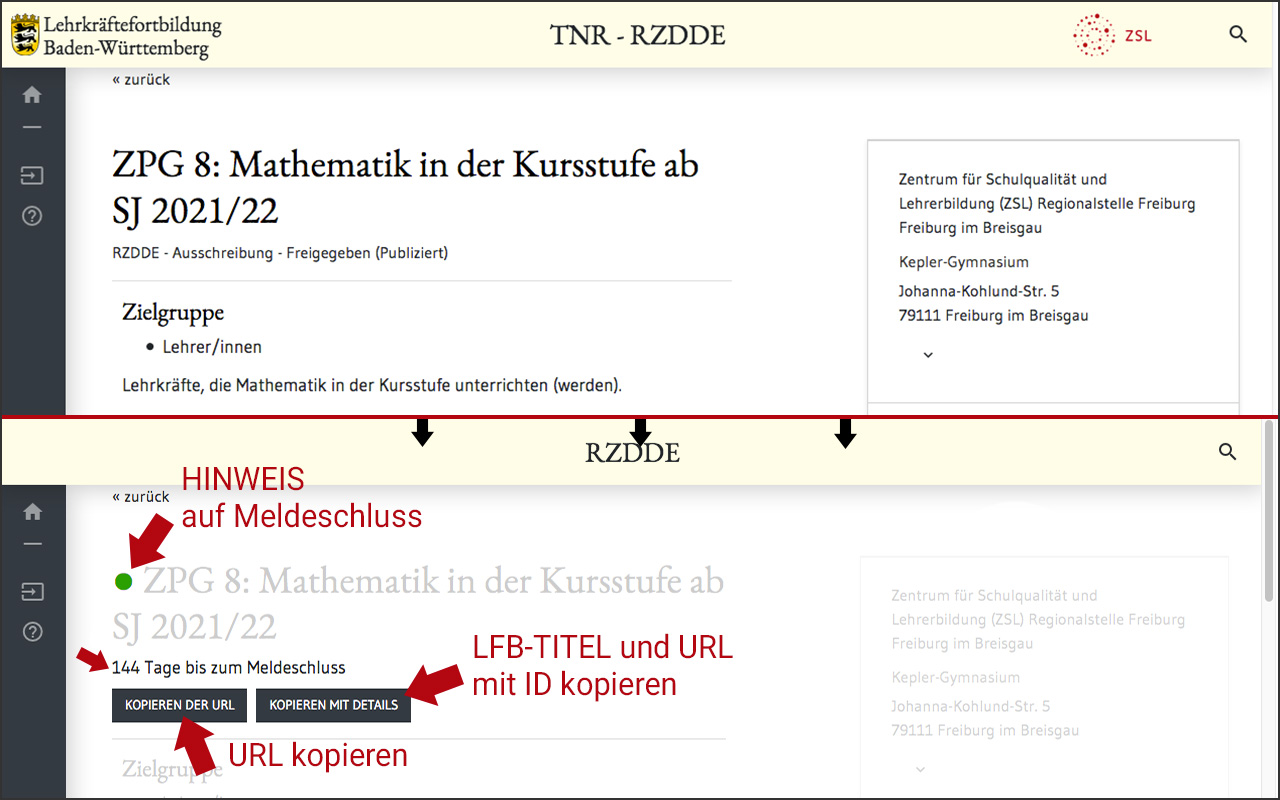
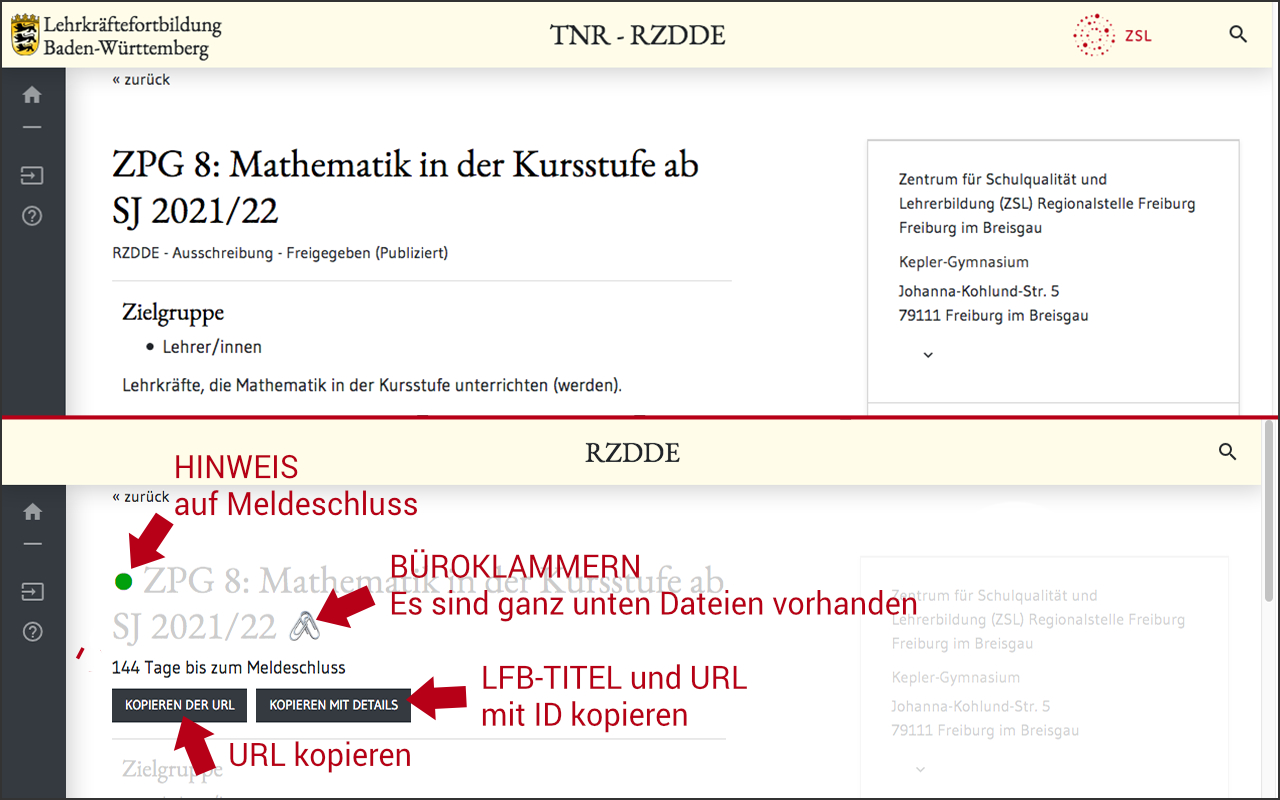
v2.5

diff --git a/greaseMonkey/lfbPlus.js b/greaseMonkey/lfbPlus.js
@@ -5,7 +5,7 @@
 // @twitterURL     https://www.twitter.com/Mr_DblH
 // @description    Gets links ready for opening in new tab and sets title accordingly. It shows an icon according to meldeschluss-date, too. Adds a link to itself including the LFB-ID to take a better reference to it. Setting up favourites in bookmarks is now much easier because title of page is changed to current appointment and LFB-ID.
 // @icon           https://raw.githubusercontent.com/Mr-DblH/LFBPlus/main/chrome_firefox/icons/lfbPlusIcon-48.png
-// @version        2.4
+// @version        2.5
 // @include        *lfbo.kultus-bw*
 // @license        https://creativecommons.org/licenses/by-nc/4.0/
 // ==/UserScript==
@@ -76,6 +76,17 @@ document.onreadystatechange = () => {
         title_str = title_el[0].innerText.split("\n");
         lfb_id = title_str[1].substring(0,6);
         var yellow_boxed_title_el = document.getElementsByClassName("d-none d-sm-block");
+
+        var zusaetzliche_unterlagen;
+        try{
+          zusaetzliche_unterlagen = document.body.innerHTML.toLowerCase().includes('Vorbereitende Veranstaltungsunterlagen'.toLowerCase());
+          if (zusaetzliche_unterlagen){
+            title_str[0] = title_str[0] + " 🖇";
+          }
+        } catch {
+          console.log("keine zusätzlichen Unterlagen gefunden")
+        }
+
 
         if (!title_el[0].innerHTML.includes('●')){
           try{
@@ -228,3 +239,5 @@ function copyToClipboardPlain(stringToBeCopied, btnElement){
     btnElement.classList.remove('btn-primary');
   }, 300);
 }
+
+

diff --git a/chrome_firefox/lfbPlus.js b/chrome_firefox/lfbPlus.js
@@ -5,7 +5,7 @@
 // @twitterURL     https://www.twitter.com/Mr_DblH
 // @description    Gets links ready for opening in new tab and sets title accordingly. It shows an icon according to meldeschluss-date, too. Adds a link to itself including the LFB-ID to take a better reference to it. Setting up favourites in bookmarks is now much easier because title of page is changed to current appointment and LFB-ID.
 // @icon           https://raw.githubusercontent.com/Mr-DblH/LFBPlus/main/chrome_firefox/icons/lfbPlusIcon-48.png
-// @version        2.4
+// @version        2.5
 // @include        *lfbo.kultus-bw*
 // @license        https://creativecommons.org/licenses/by-nc/4.0/
 // ==/UserScript==
@@ -71,6 +71,16 @@ var refreshInterval = setInterval(function() {
     title_str = title_el[0].innerText.split("\n");
     lfb_id = title_str[1].substring(0,6);
     var yellow_boxed_title_el = document.getElementsByClassName("d-none d-sm-block");
+
+    var zusaetzliche_unterlagen;
+    try{
+      zusaetzliche_unterlagen = document.body.innerHTML.toLowerCase().includes('Vorbereitende Veranstaltungsunterlagen'.toLowerCase());
+      if (zusaetzliche_unterlagen){
+        title_str[0] = title_str[0] + " 🖇";
+      }
+    } catch {
+      console.log("keine zusätzlichen Unterlagen gefunden")
+    }
 
     if (!title_el[0].innerHTML.includes('●')){
       try{

diff --git a/README.md b/README.md
@@ -31,6 +31,10 @@ Hinweis: Das ist ein privates Projekt; ich stehe bzgl. dieses Projektes _nicht_ 
 
     Anhand der Mitteilung wird eine LFB-Nummer ausgelesen und als Link zu dieser Fortbildung hinzugefügt. Da der Titel oft nicht in der Mitteilung vorhanden ist, findet man ohne erneute Suche den Titel leichter mit einem Klick auf den generierten Link. Dieser öffnet in einem neuen Tab die Fortbildungs-Einzelseite.
 
+- **Für eingeloggte Nutzer: Sind vorbereitende Unterlagen vorhanden?**
+
+    Verkettete Büroklammern bei einer Veranstaltung - hier bei muss man dafür angemeldet sein - deuten auf hinterlegte Unterlagen hin. Diese sind am Ende der Website gelistet und werden doch häufiger übersehen. Die Büroklammern werden im Titel zusätzlich angezeigt.
+
 
 ## Installationshinweise
 - für Firefox als Addon [hier](https://addons.mozilla.org/en-US/firefox/addon/lfb/) erhältlich; bitte ausschließlich von der offiziellen Mozilla-Addon-Seite laden.
